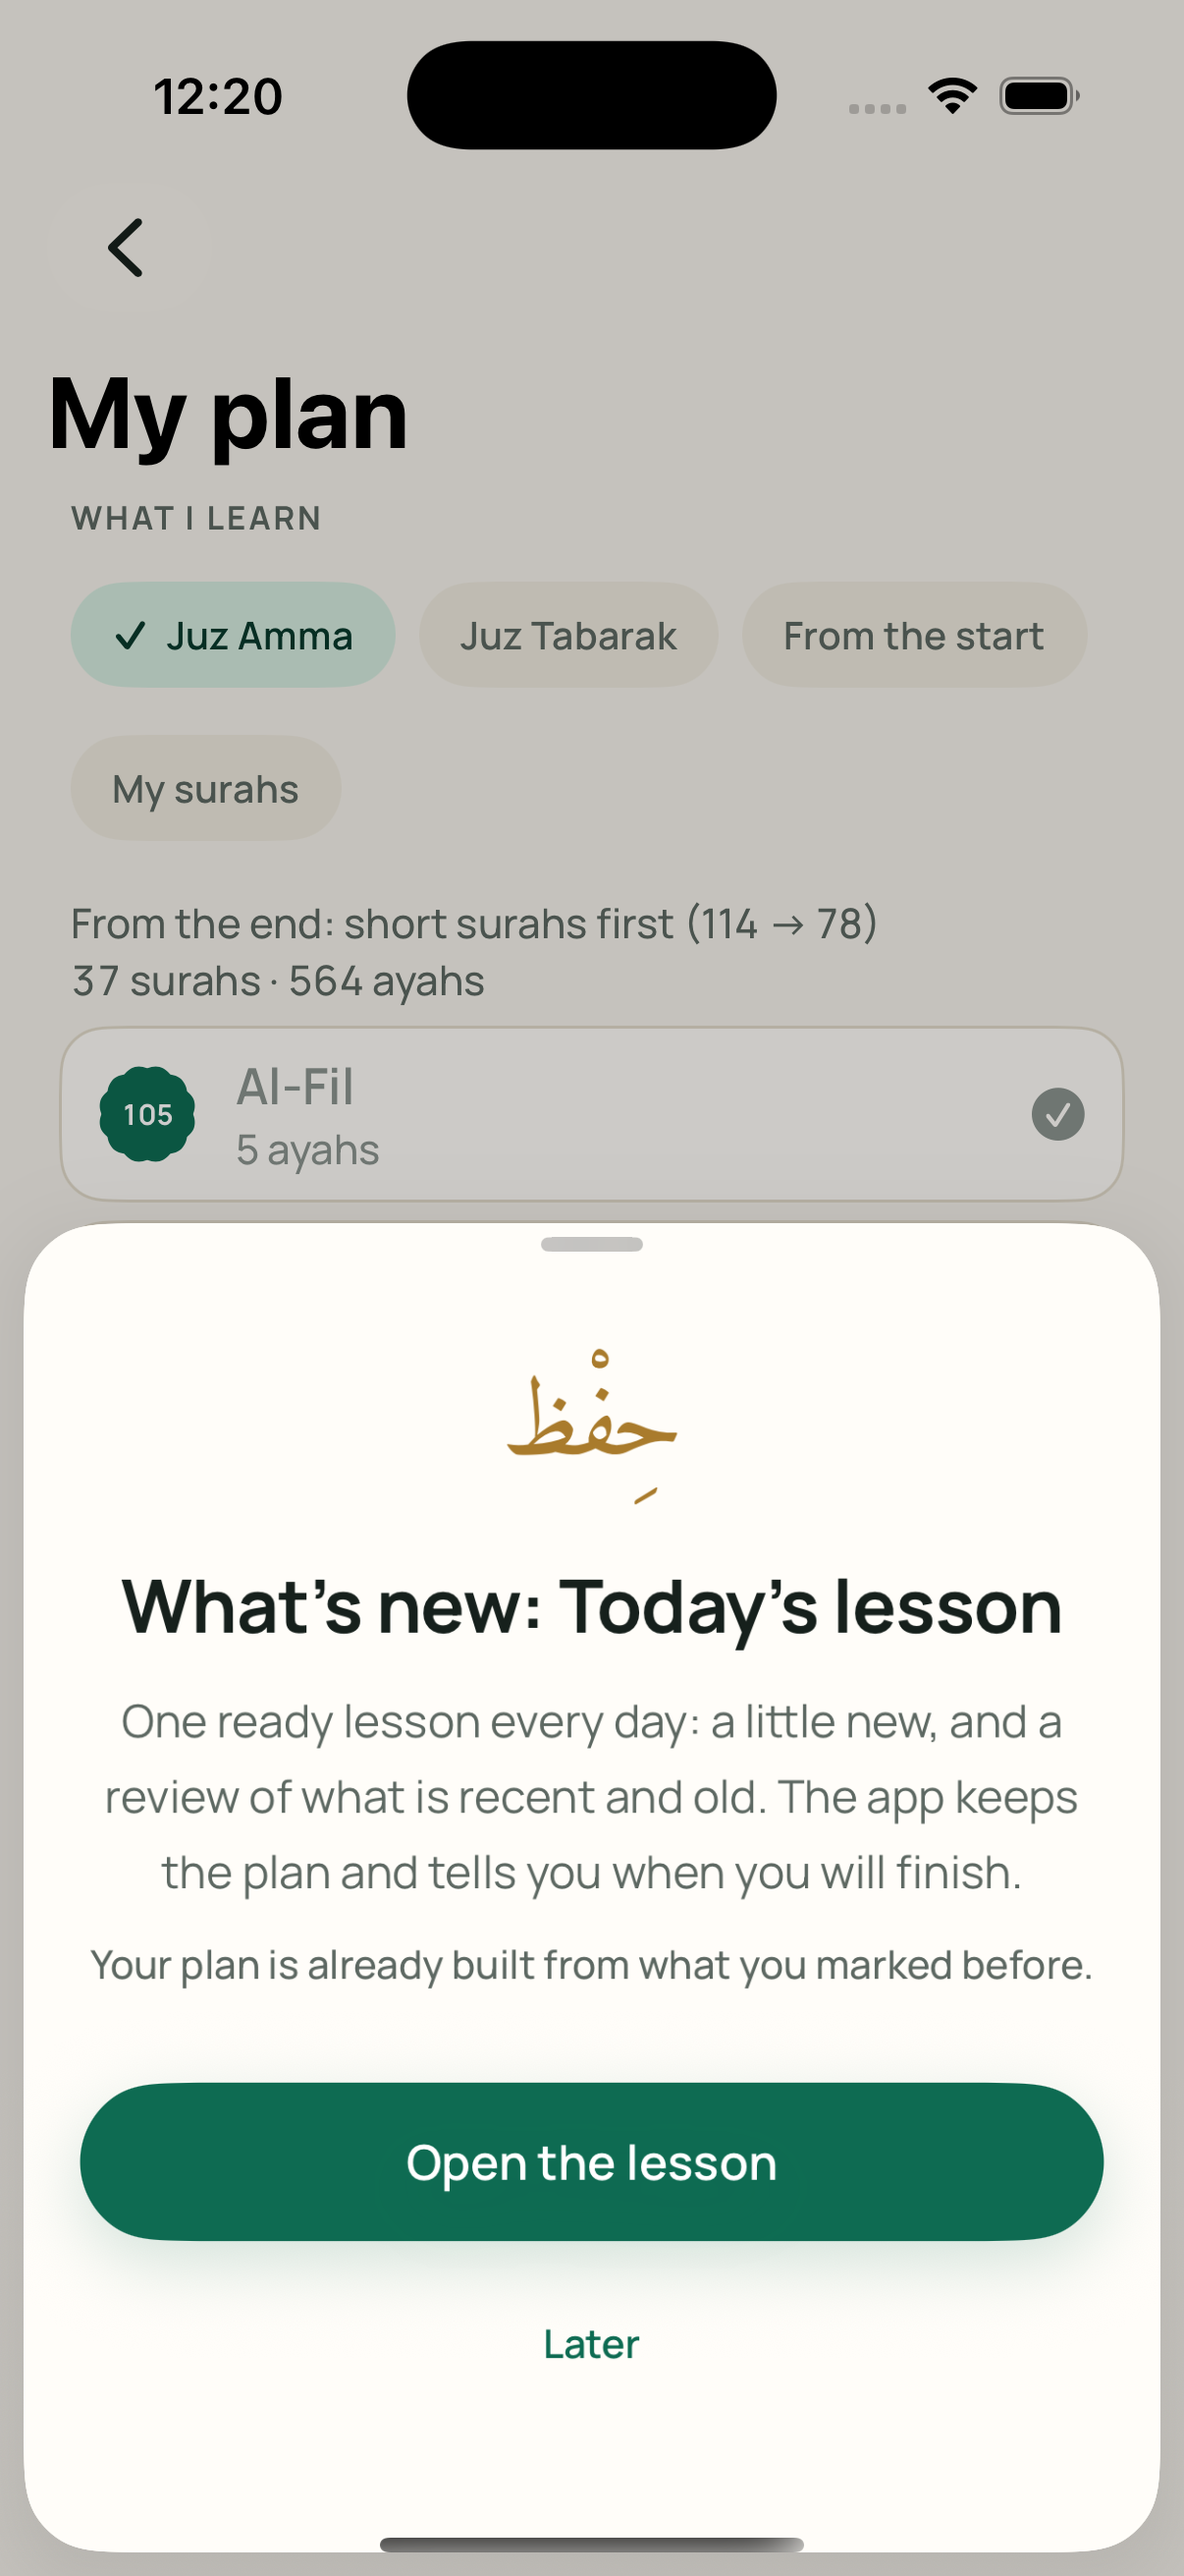
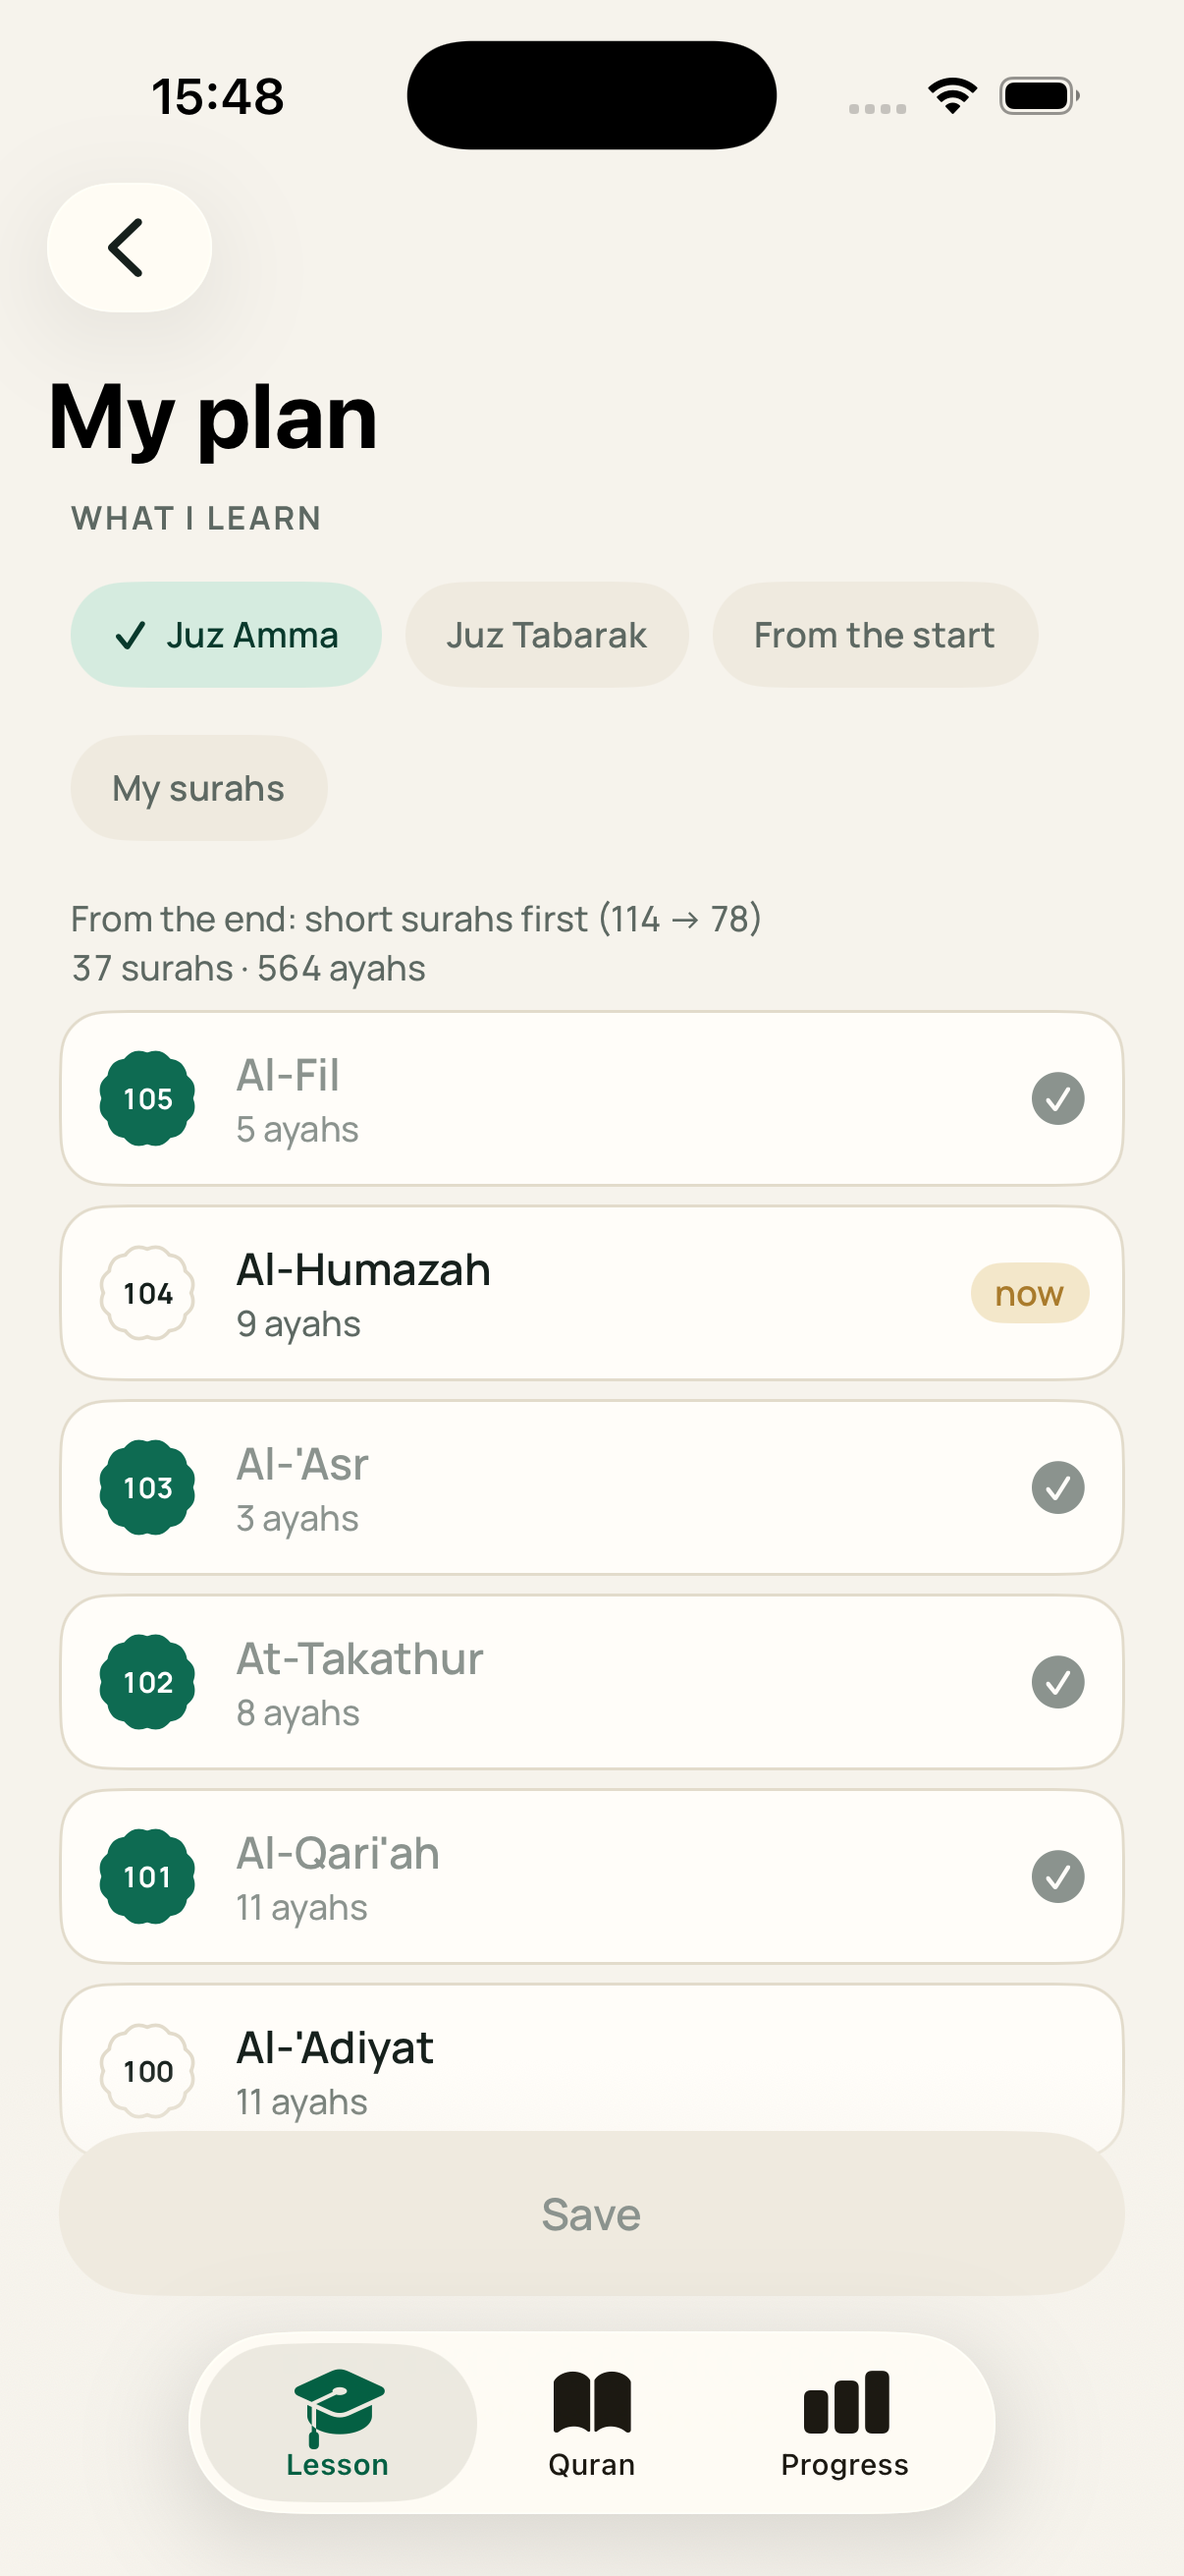
ios s6: seed error log, screenshots

diff --git a/iosApp/iosApp/App/QuranHifzApp.swift b/iosApp/iosApp/App/QuranHifzApp.swift
@@ -41,7 +41,7 @@ struct QuranHifzApp: App {
                 if let url = NotificationRouter.shared.consumePendingURL() { _ = router.open(url: url) }
                 #if DEBUG
                 if UserDefaults.standard.bool(forKey: "qhSeedDemo") {
-                    try? await IosDebugSeed.shared.seed(withKhatm: UserDefaults.standard.bool(forKey: "qhSeedKhatm"))
+                    do { try await IosDebugSeed.shared.seed(withKhatm: UserDefaults.standard.bool(forKey: "qhSeedKhatm")) } catch { NSLog("SEEDFAIL \(error)") }
                 }
                 // QA and screenshots: `-qhOpen quranhifz://plan` as a launch argument opens that place (simulator taps are not scriptable).
                 if let link = UserDefaults.standard.string(forKey: "qhOpen"), let url = URL(string: link) {
